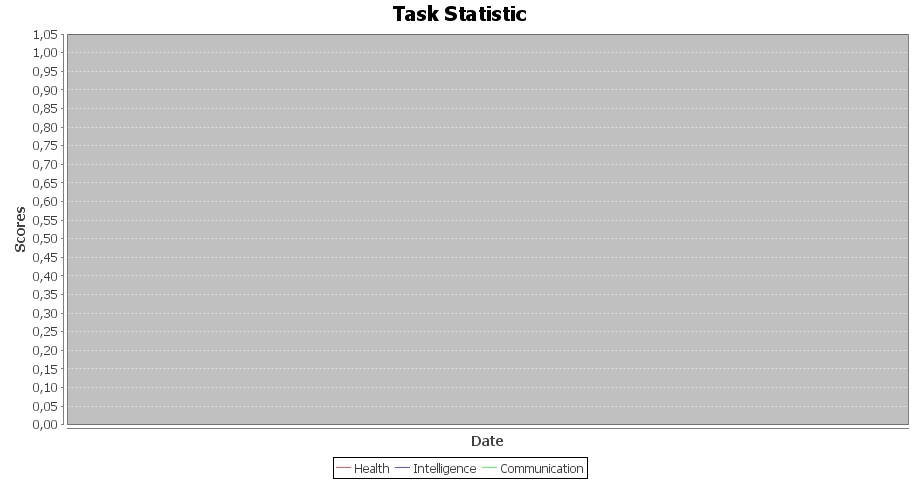
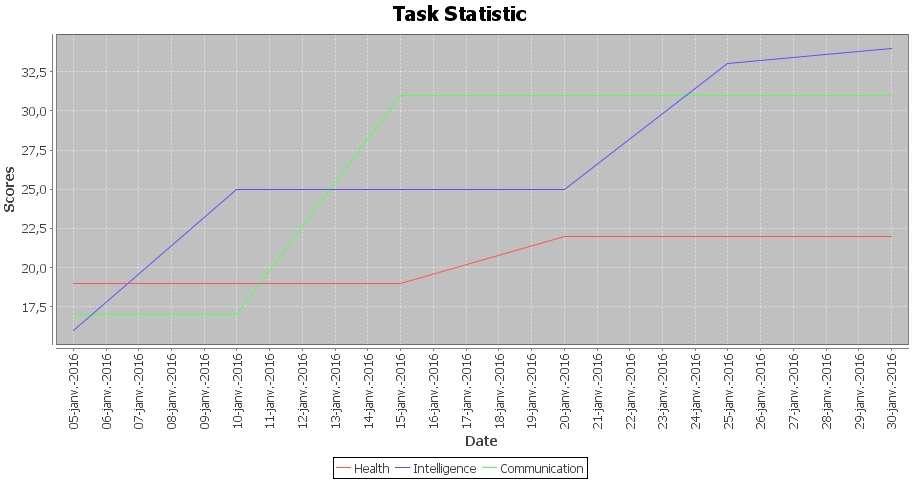
TaskService novije metodi : getScoresAverage; getScoresForDay. TaskStatisticControllerImpl dopolnenija V baze novaja kolonka v 'taskHistory' ->'taskType'

diff --git a/src/main/java/lv/javaguru/java2/services/TaskService.java b/src/main/java/lv/javaguru/java2/services/TaskService.java
@@ -1,4 +1,6 @@
 package lv.javaguru.java2.services;
+import lv.javaguru.java2.database.DBException;
+import lv.javaguru.java2.database.HistoryRecordDAO;
 import lv.javaguru.java2.domain.HistoryRecord;
 import lv.javaguru.java2.domain.Task;
 import lv.javaguru.java2.domain.User;
@@ -6,6 +8,10 @@ import lv.javaguru.java2.domain.builders.HistoryRecordBuilder;
 import org.springframework.beans.factory.annotation.Autowired;
 import org.springframework.stereotype.Component;
 
+import java.text.ParseException;
+import java.text.SimpleDateFormat;
+import java.util.ArrayList;
+import java.util.Calendar;
 import java.util.List;
 
 /**
@@ -21,6 +27,8 @@ public class TaskService {
     private TimeService timeService;
     @Autowired
     private HistoryRecordBuilder historyRecordBuilder;
+    @Autowired
+    HistoryRecordDAO historyRecordDAO;
 
     public User setUserPropertiesByAccomplishedTask(User user, Task task) {
         String taskType = task.getStatType();
@@ -40,19 +48,18 @@ public class TaskService {
         return user;
     }
 
-    private int calculateWillPower(User user){
-        return (user.getHealth()+user.getIntelligence()+user.getCommunication())/COUNT_OF_STATUSES;
+    private int calculateWillPower(User user) {
+        return (user.getHealth() + user.getIntelligence() + user.getCommunication()) / COUNT_OF_STATUSES;
     }
 
-    public Task setTaskAccomplished(Task task){
+    public Task setTaskAccomplished(Task task) {
         task.setAccomplishedYN("Y");
         task.setDateAccomplished(timeService.getSqlTimestamp());
         return task;
     }
 
-    public Task setTaskNotAccomplished(Task task){
+    public Task setTaskNotAccomplished(Task task) {
         task.setAccomplishedYN("N");
-        //task.setDateAccomplished(null);
         return task;
     }
 
@@ -60,6 +67,7 @@ public class TaskService {
         HistoryRecord historyRecord = historyRecordBuilder.buildHistoryRecord()
                 .withUserID(user.getId())
                 .withTaskID(task.getId())
+                .withStatType(task.getStatType())
                 .withHealth(user.getHealth())
                 .withIntelligence(user.getIntelligence())
                 .withCommunication(user.getCommunication())
@@ -70,28 +78,12 @@ public class TaskService {
         return historyRecord;
     }
 
-    /*public Long getAccomplishedTaskId(List<Task> accomplishedTaskList, User user, Task task) {
-        Long userId = user.getId();
-        Long taskId = task.getId();
-        Long accomplishedTaskUserId = null;
-        Long accomplishedTaskId = null;
-        Long historyRecordId = null;
-
-        for (Task accomplishedTask : accomplishedTaskList) {
-            accomplishedTaskUserId = accomplishedTask.getUserID();
-            accomplishedTaskId = accomplishedTask.getId();
-            if(accomplishedTaskUserId.equals(userId) && accomplishedTaskId.equals(taskId)) {
-                return accomplishedTaskId;
-            }
-        }
-        return accomplishedTaskId;
-    }*/
     public Long getHistoryRecordId(List<HistoryRecord> historyRecordsInRange, Long accomplishedTaskId) {
         Long historyRecordId = null;
         Long historyRecordTaskId = null;
-        for (HistoryRecord historyRecord: historyRecordsInRange){
+        for (HistoryRecord historyRecord : historyRecordsInRange) {
             historyRecordTaskId = historyRecord.getTaskID();
-            if(historyRecordTaskId.equals(accomplishedTaskId)){
+            if (historyRecordTaskId.equals(accomplishedTaskId)) {
                 historyRecordId = historyRecord.getId();
                 return historyRecordId;
             }
@@ -115,5 +107,55 @@ public class TaskService {
         }
         user.setWillPower(calculateWillPower(user));
         return user;
+    }
+
+    public List<Integer> getScoresForDay(List<HistoryRecord> historyRecordsForDay) {
+        List<Integer> scores = new ArrayList<Integer>();
+        Integer scoresHealth = 0;
+        Integer scoresIntelligence = 0;
+        Integer scoresCommunication = 0;
+        String statType;
+        for (HistoryRecord historyRecord : historyRecordsForDay) {
+            statType = historyRecord.getStatType();
+            if (statType.equals(TASK_STATUS_TYPE_HEALTH)) {
+                scoresHealth += historyRecord.getStatValue();
+            } else if (statType.equals(TASK_STATUS_TYPE_INTELLIGENCE)) {
+                scoresIntelligence += historyRecord.getStatValue();
+            } else if (statType.equals(TASK_STATUS_TYPE_COMMUNICATION)) {
+                scoresCommunication += historyRecord.getStatValue();
+            }
+        }
+        scores.add(scoresHealth);
+        scores.add(scoresIntelligence);
+        scores.add(scoresCommunication);
+        return scores;
+    }
+
+    public List<Integer> getScoresAverage(List <HistoryRecord> historyRecordsInRange) throws ParseException {
+        List<Integer> scoresAverage = new ArrayList<Integer>();
+        Integer scoresHealth = 0;
+        Integer scoresIntelligence = 0;
+        Integer scoresCommunication = 0;
+        String startDate;
+        String stopDate = timeService.getFormattedDate(historyRecordsInRange.get(historyRecordsInRange.size() - 1).getDateCompleted());
+        int dateCount = 1;
+        String statType;
+        for (HistoryRecord historyRecord : historyRecordsInRange) {
+            startDate = timeService.getFormattedDate(historyRecord.getDateCompleted());
+            if (!startDate.equals(stopDate))
+                dateCount++;
+            statType = historyRecord.getStatType();
+            if (statType.equals(TASK_STATUS_TYPE_HEALTH)) {
+                scoresHealth += historyRecord.getStatValue();
+            } else if (statType.equals(TASK_STATUS_TYPE_INTELLIGENCE)) {
+                scoresIntelligence += historyRecord.getStatValue();
+            } else if (statType.equals(TASK_STATUS_TYPE_COMMUNICATION)) {
+                scoresCommunication += historyRecord.getStatValue();
+            }
+        }
+        scoresAverage.add(scoresHealth / dateCount);
+        scoresAverage.add(scoresIntelligence / dateCount);
+        scoresAverage.add(scoresCommunication / dateCount);
+        return scoresAverage;
     }
 }

diff --git a/src/main/java/lv/javaguru/java2/servlet/controllers/TaskStatisticsControllerImpl.java b/src/main/java/lv/javaguru/java2/servlet/controllers/TaskStatisticsControllerImpl.java
@@ -4,6 +4,7 @@ import lv.javaguru.java2.database.HistoryRecordDAO;
 import lv.javaguru.java2.domain.HistoryRecord;
 import lv.javaguru.java2.domain.User;
 import lv.javaguru.java2.services.ChartService;
+import lv.javaguru.java2.services.TaskService;
 import lv.javaguru.java2.services.TimeSeriesChart_image;
 import lv.javaguru.java2.services.TimeService;
 import lv.javaguru.java2.servlet.controllers.controllerInterfaces.TaskStatisticsController;
@@ -19,6 +20,7 @@ import org.springframework.web.servlet.ModelAndView;
 import javax.servlet.http.HttpServletRequest;
 import javax.servlet.http.HttpSession;
 import java.io.IOException;
+import java.text.ParseException;
 import java.util.Date;
 import java.util.List;
 
@@ -33,9 +35,11 @@ public class TaskStatisticsControllerImpl{
     HistoryRecordDAO historyRecordDAO;
     @Autowired
     TimeService timeService;
+    @Autowired
+    TaskService taskService;
 
     @RequestMapping(value = "/taskStatistics", method = {RequestMethod.GET})
-    public ModelAndView execute(HttpServletRequest request) throws DBException, IOException {
+    public ModelAndView execute(HttpServletRequest request) throws DBException, IOException, ParseException {
 
         HttpSession session = request.getSession();
         final User user = (User) session.getAttribute("user");
@@ -43,8 +47,18 @@ public class TaskStatisticsControllerImpl{
         Date stopDate = (Date) session.getAttribute("stopDate");
 
         List<HistoryRecord> historyRecordListInRange = historyRecordDAO.getHistoryRecordsInRange(user, startDate, stopDate);
-
         chartService.createTimeSeriesChart(historyRecordListInRange);
+
+        List<Integer> scoresAverage = taskService.getScoresAverage(historyRecordListInRange);
+
+        List<HistoryRecord> historyRecordListToday = historyRecordDAO
+                .getHistoryRecordsInRange(user,
+                        timeService.getStartOfDateTimestamp(),
+                        timeService.getEndOfDateTimestamp());
+        List<Integer> scoresToday = taskService.getScoresForDay(historyRecordListToday);
+
+        session.setAttribute("scoresToday", scoresToday);
+        session.setAttribute("scoresAverage", scoresAverage);
 
         return  new ModelAndView("/taskStatisticChart.jsp","model", "Task Statistics");
     }

diff --git a/src/main/java/lv/javaguru/java2/domain/HistoryRecord.java b/src/main/java/lv/javaguru/java2/domain/HistoryRecord.java
@@ -16,9 +16,13 @@ public class HistoryRecord {
     //@Transient
     @Column(name="taskID", columnDefinition = "BIGINT", nullable = false)
     private Long taskID;
+    @Column(name="statType", columnDefinition = "CHAR(17)")
+    private String statType = " ";
+
     //@Transient
     @Column(name="statValue", columnDefinition = "INTEGER")
     private int statValue = 0;
+
     //@Transient
     @Column(name="health", columnDefinition = "INTEGER")
     private int health;
@@ -37,18 +41,6 @@ public class HistoryRecord {
     //@Transient
     @Column(name="dateCompleted", columnDefinition = "DATETIME(6)")
     private java.sql.Timestamp dateCompleted;
-    /*@ManyToOne
-    //@JoinColumn(name = "id")
-    private User user;
-
-    public User getUser() {
-        return user;
-    }
-
-    public void setUser(User user) {
-        this.user = user;
-    }*/
-
     public HistoryRecord(){}
 
     public Long getId() {
@@ -65,6 +57,25 @@ public class HistoryRecord {
 
     public void setTaskID(Long taskID) {
         this.taskID = taskID;
+    }
+
+    /*@ManyToOne
+    //@JoinColumn(name = "id")
+    private User user;
+
+    public User getUser() {
+        return user;
+    }
+
+    public void setUser(User user) {
+        this.user = user;
+    }*/
+    public String getStatType() {
+        return statType;
+    }
+
+    public void setStatType(String statType) {
+        this.statType = statType;
     }
 
     public Long getUserID() {

diff --git a/src/main/java/lv/javaguru/java2/domain/builders/HistoryRecordBuilder.java b/src/main/java/lv/javaguru/java2/domain/builders/HistoryRecordBuilder.java
@@ -11,6 +11,7 @@ public class HistoryRecordBuilder {
     //  private Long id;
     private Long userID;
     private Long taskID;
+    private String statType;
     private int health;
     private int intelligence;
     private int communication;
@@ -28,6 +29,7 @@ public class HistoryRecordBuilder {
         HistoryRecord historyRecord = new HistoryRecord();
         historyRecord.setUserID(userID);
         historyRecord.setTaskID(taskID);
+        historyRecord.setStatType(statType);
         historyRecord.setHealth(health);
         historyRecord.setIntelligence(intelligence);
         historyRecord.setCommunication(communication);
@@ -44,6 +46,10 @@ public class HistoryRecordBuilder {
     }
     public HistoryRecordBuilder withTaskID(Long taskID) {
         this.taskID = taskID;
+        return this;
+    }
+    public HistoryRecordBuilder withStatType(String statType) {
+        this.statType = statType;
         return this;
     }
     public HistoryRecordBuilder withHealth(int health) {

diff --git a/src/main/java/lv/javaguru/java2/services/TimeService.java b/src/main/java/lv/javaguru/java2/services/TimeService.java
@@ -92,4 +92,12 @@ public class TimeService {
         String formattedDate = df.format(date);
         return formattedDate;
     }
+
+    public int getDate(java.sql.Timestamp timestamp){
+        Calendar calendar = Calendar.getInstance();
+        calendar.setTime(timestamp);
+        int date = calendar.DAY_OF_YEAR;
+        return date;
+    }
+
 }
